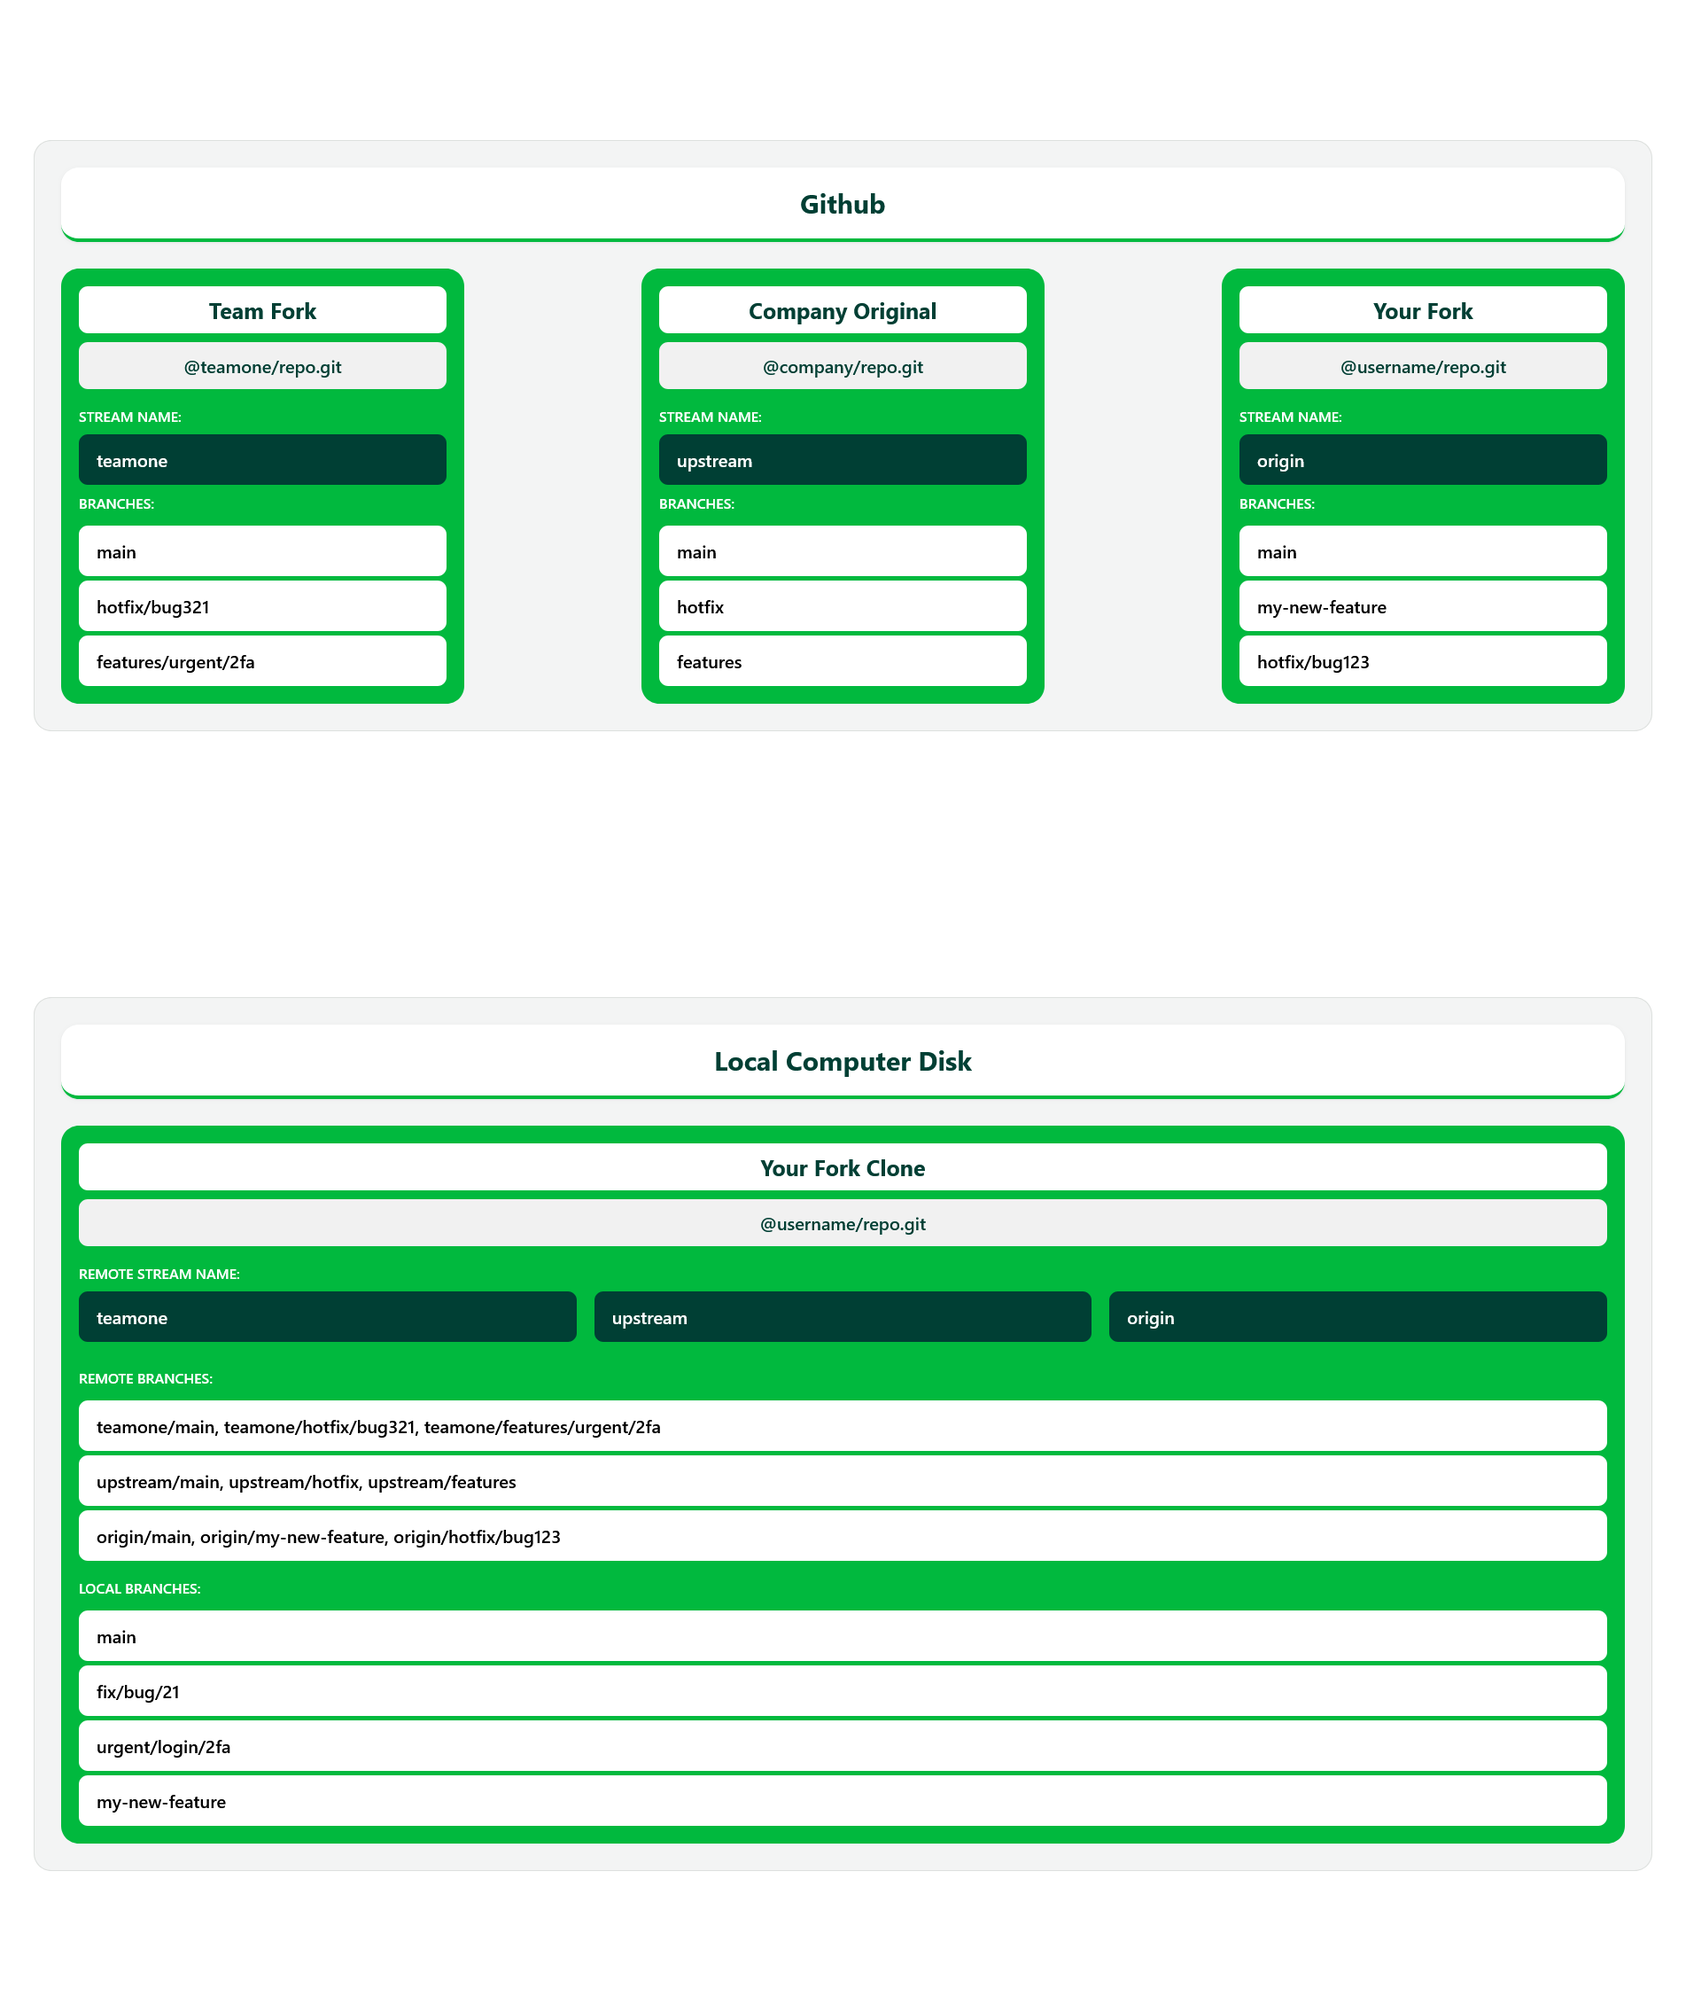
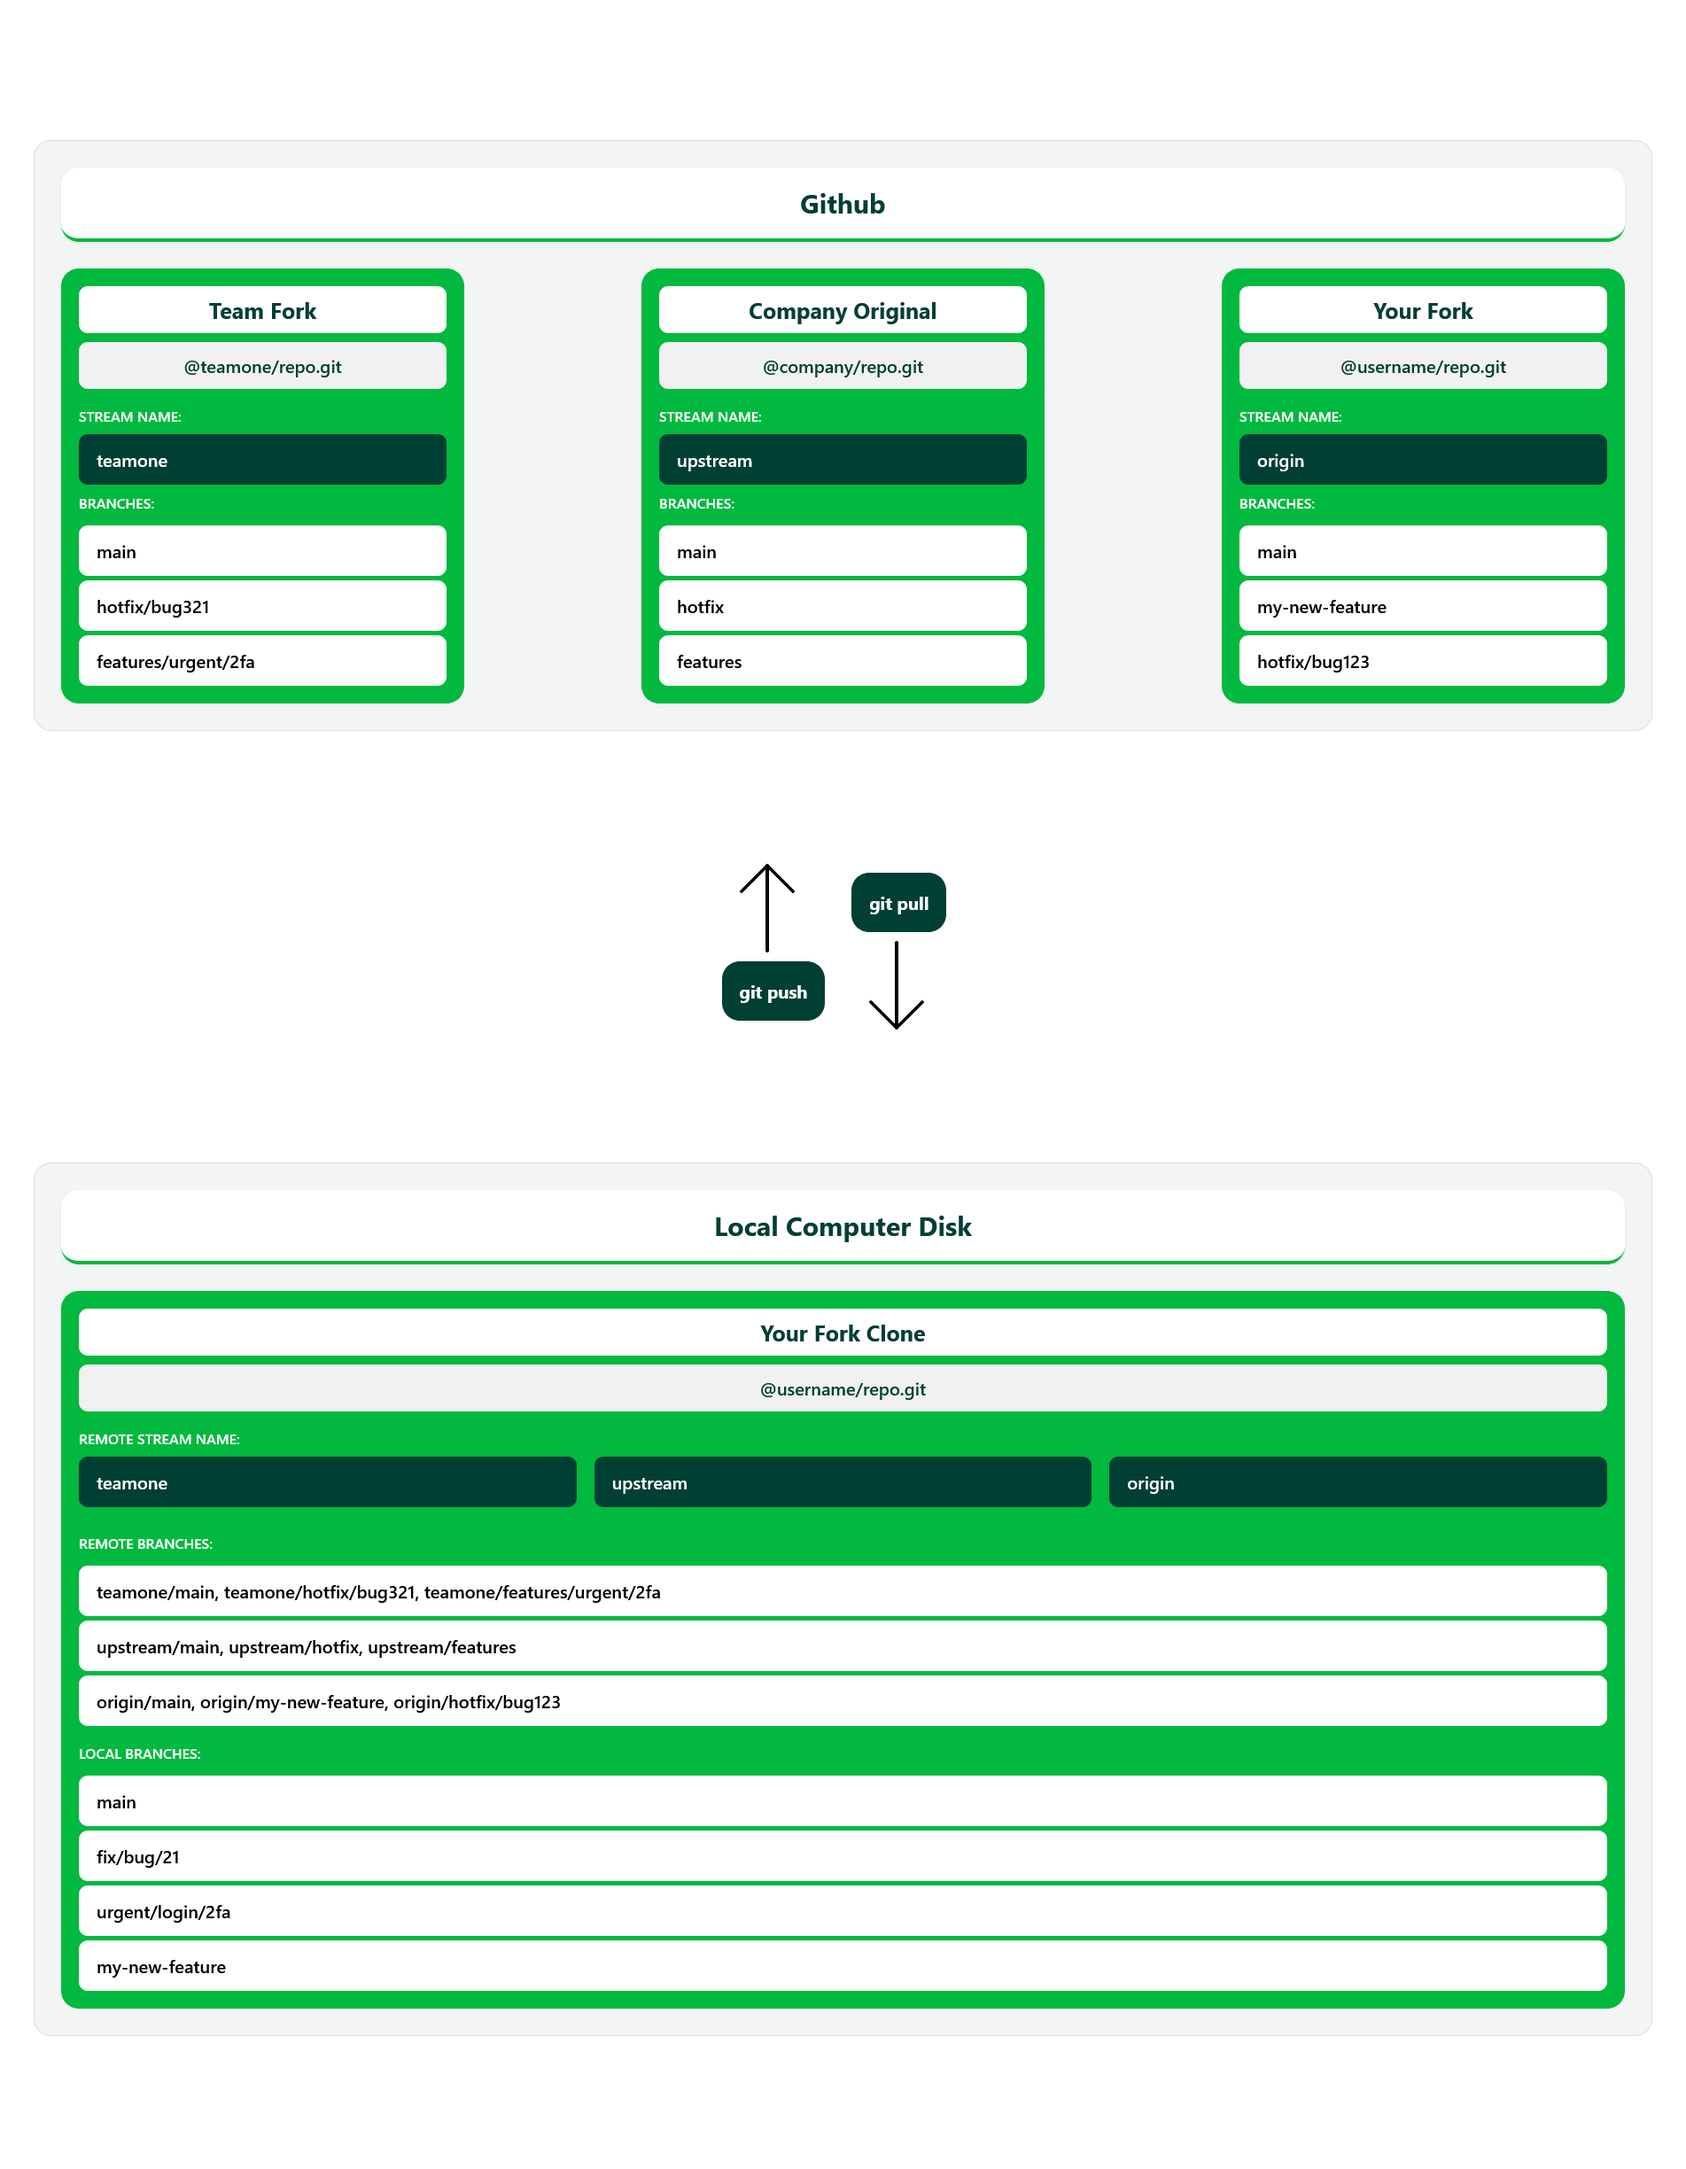
Git upstream

diff --git a/git-upstream.html b/git-upstream.html
@@ -138,6 +138,94 @@
             margin-top: 30px;
             }
         }
+
+        .arr-top {
+            position: relative;
+            display: inline-block;
+            width: 4px;
+            height: 100px;
+            margin: 0 29px;
+            border-radius: 9999px;
+            background-color: #000000;
+        }
+
+        .arr-top::before,
+        .arr-top::after {
+            content: "";
+            position: absolute;
+            top: 0;
+            left: calc(50% - 2px);
+            width: 4px;
+            height: 45px;
+            border-radius: 9999px;
+            background-color: #000000;
+            transform-origin: 50% 2px;
+        }
+
+        .arr-top::before {
+            transform: rotate(45deg);
+        }
+
+        .arr-top::after {
+            transform: rotate(-45deg);
+        }
+
+        .arr-bot {
+            position: relative;
+            display: inline-block;
+            width: 4px;
+            height: 100px;
+            margin: 0 29px;
+            border-radius: 9999px;
+            background-color: #000000;
+        }
+
+        .arr-bot::before,
+        .arr-bot::after {
+            content: "";
+            position: absolute;
+            bottom: 0;
+            left: calc(50% - 2px);
+            width: 4px;
+            height: 45px;
+            border-radius: 9999px;
+            background-color: #000000;
+            transform-origin: 50% calc(100% - 2px);
+        }
+
+        .arr-bot::before {
+            transform: rotate(45deg);
+        }
+
+        .arr-bot::after {
+            transform: rotate(-45deg);
+        }
+
+        .github-arrows {
+            float: left;
+            width: 100%;
+            display: flex;
+            align-items: center;
+            justify-content: center;
+            gap: 50px;
+        }
+
+        .arrow-top,
+        .arrow-bot {
+            display: flex;
+            flex-direction: column;
+        }
+
+        .arr-txt {
+            margin-block: 10px;
+            font-size: 20px;
+            font-weight: 700;
+            padding: 20px;
+            margin-left: -20px;
+            color: #fff;
+            background: #003F34;
+            border-radius: 20px;
+        }
     </style>
 </head>
 <body>
@@ -178,6 +266,17 @@
                 <div class="branch-name">my-new-feature</div>
                 <div class="branch-name">hotfix/bug123</div>
             </div>
+        </div>
+    </div>
+
+    <div class="github-arrows">
+        <div class="arrow-top">
+            <div class="arr-top"></div>
+            <div class="arr-txt">git push</div>
+        </div>
+        <div class="arrow-bot">
+            <div class="arr-txt">git pull</div>
+            <div class="arr-bot"></div>
         </div>
     </div>
 

diff --git a/GITFLOW.md b/GITFLOW.md
@@ -1,0 +1,36 @@
+# Git Flow
+
+- **git clone https://….git** used for cloning a repository onto your local machine
+- **git branch {branch}** used to create a new branch on your local machine
+- **git checkout {branch}** used to switch to the new branch.
+- **git add {file}** add a file to the staging area ready to commit.
+- **git commit -am “commit comment goes here"** commit your changes to the branch.
+- **git push -u origin {branch}** used to push your changes to the remote server.
+- **git pull** used to pull down other people’s changes from that branch.
+
+## GitHub flow strategy branches
+
+main, features
+
+### GitHub flow howto
+
+1. With the GitHub flow, you only ever have 2 branches: main, features.
+2. As with Git Flow, an empty main branch is created at the start of a new project.
+3. Every change that is worked on is branched directly off of main into a feature branch.
+4. Once a feature is ready it is tested on the feature branch and the code is reviewed before being merged to main.
+5. Once the feature has been merged to main it should be released to production immediately.
+6. Hotfixes are treated the same as feature branches as they branch off of main already.
+
+## Git flow strategy branches
+
+main, hotfix, release, develop, feature, feature-sub
+
+### Git flow howto
+
+1. Create new feature from develop branch. Once the feature implementation is complete, the feature branch should be merged back into the develop branch.
+2. A release branch is created from the develop branch when the develop branch reaches the desired state for the new release. It is used to prepare for a new production release, only incorporating bug fixes and last-minute changes. The release branch is eventually merged into both the main and develop branches, and a tag is added to the main branch to mark the release. Merging the release branch into the develop branch ensures that the develop branch includes any last-minute changes made in the release branch. This ensures that future releases and feature implementations will also incorporate these changes.
+3. The hotfix branches are created to immediately address critical bugs in the main branch, which represents the live production version. They are created from the tagged commit on the main branch corresponding to the production version. Once the hotfix is complete, it should be merged into both the main and develop branches. The reason for merging it into the develop branch is to ensure that future releases also include the bugfix.
+4. The hotfix branches are created to immediately address critical bugs in the main branch, which represents the live production version. They are created from the tagged commit on the main branch corresponding to the production version. Once the hotfix is complete, it should be merged into both the main and develop branches. The reason for merging it into the develop branch is to ensure that future releases also include the bugfix.
+5. However, if a release branch exists, the hotfix changes should be merged into that specific release branch instead of the develop branch because the fixes will eventually be merged into the develop branch when the release branch is finished. Meanwhile, the upcoming release can also include the changes to fix the issues in the next production version.
+
+
